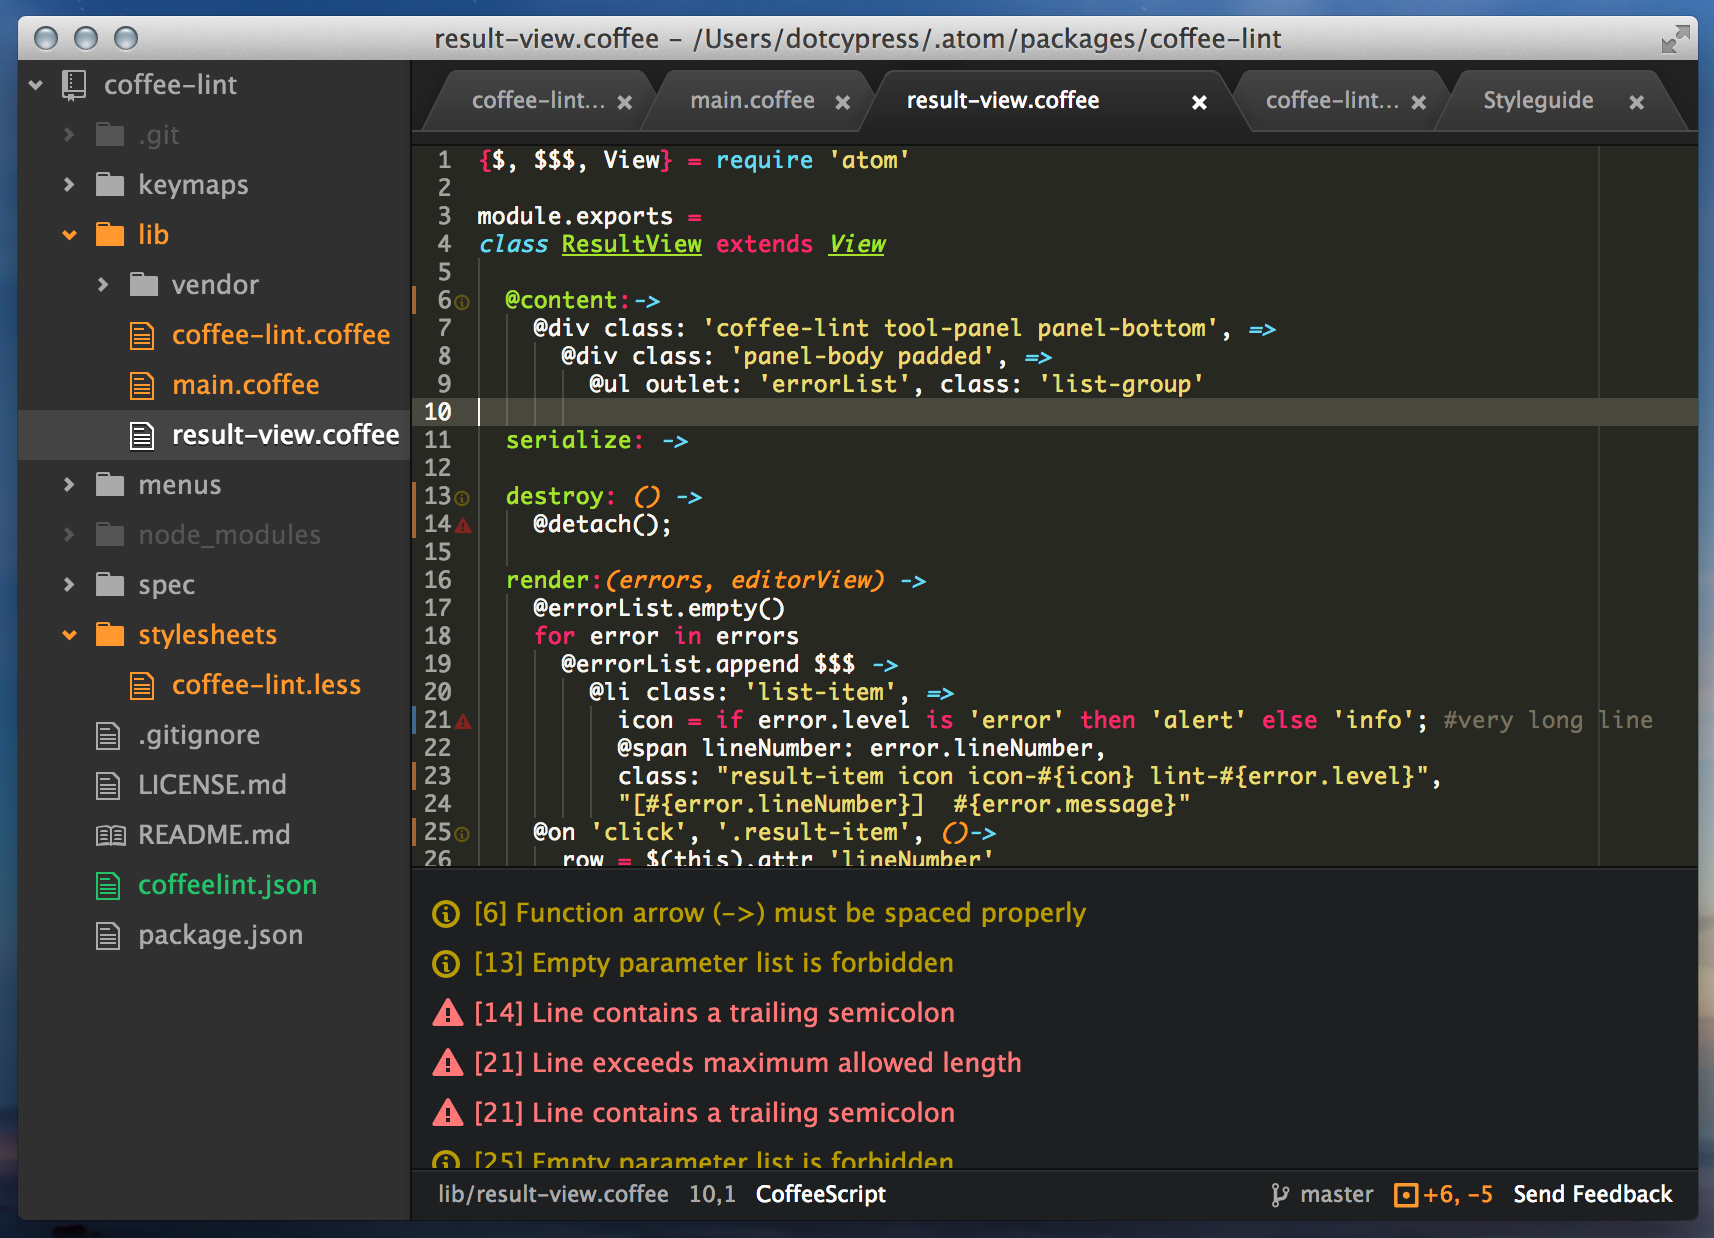
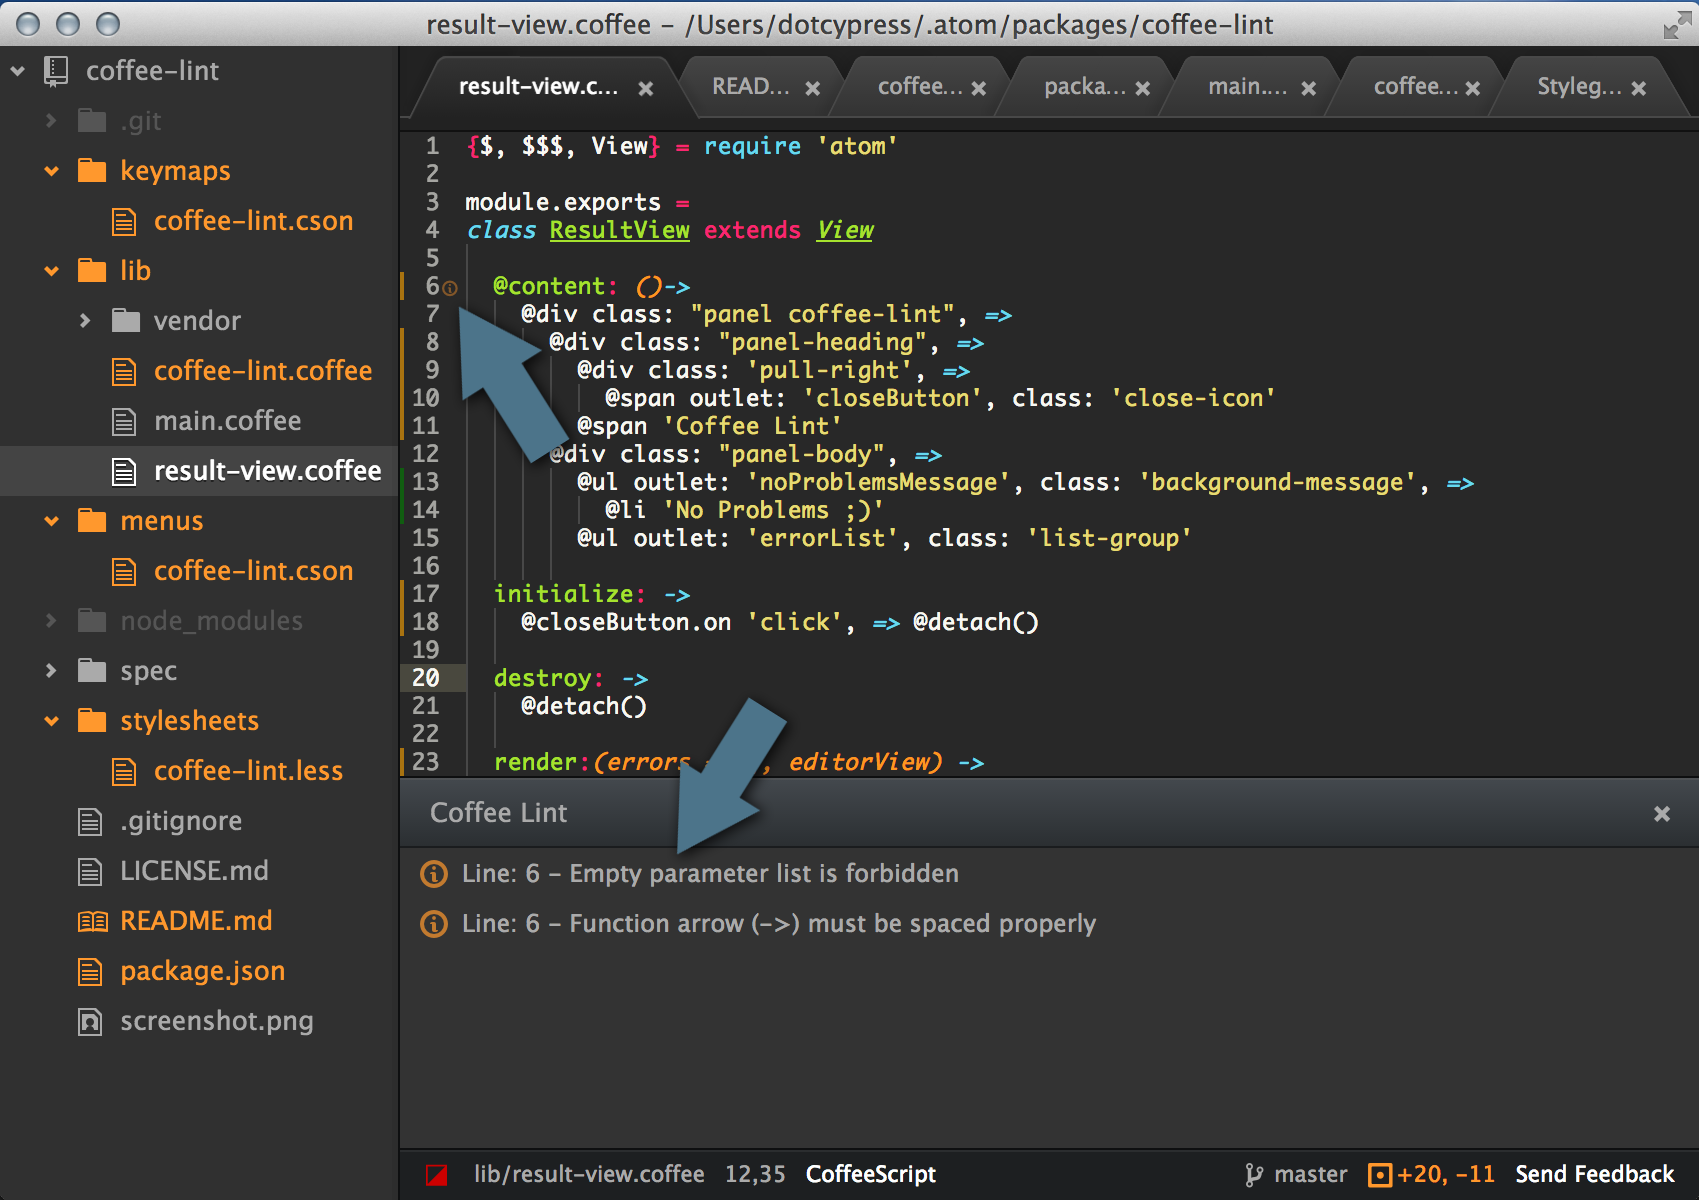
refactor

diff --git a/stylesheets/coffee-lint.less b/stylesheets/coffee-lint.less
@@ -24,14 +24,39 @@
 .coffee-lint {
   margin-bottom: 0;
 
+  .close-icon {
+
+    &:before {
+      font-family: 'Octicons Regular';
+      -webkit-font-smoothing: antialiased;
+      width: 12px;
+      content: "\f081";
+    }
+
+    &:hover {
+      color: @text-color-highlight;
+    }
+  }
+
+  .background-message {
+    padding-top: 40px;
+    text-align: center;
+  }
+
   .panel-body {
     height: 150px;
+    padding: 0;
     overflow-y: scroll;
 
-    .result-item {
+    .list-item {
       cursor: pointer;
+      padding: 0 @component-padding;
 
-      &.lint-error {
+      &:hover {
+        background: @background-color-highlight;
+      }
+
+      &.lint-error .icon {
         color: fade(@text-color-error, 70%);
 
         &:hover {
@@ -39,7 +64,7 @@
         }
       }
 
-      &.lint-warn {
+      &.lint-warn .icon{
         color: fade(@text-color-warning, 70%);
 
         &:hover {

diff --git a/README.md b/README.md
@@ -2,7 +2,8 @@
 
 Coffee script linter for Atom editor
 
-* `cmd-cntl-l` lint coffee script
+* `cmd-ctrl-l` - lint current file
+* `cmd-ctrl-shift-l` toggle results panel
 
 ## Configuration
 You can change lint options in settings or just add coffeelint.json file in root of proect.
